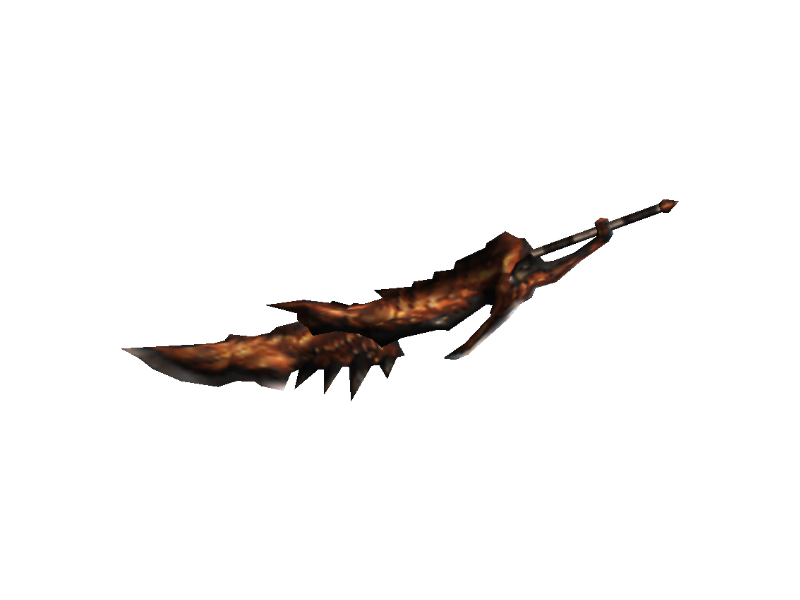
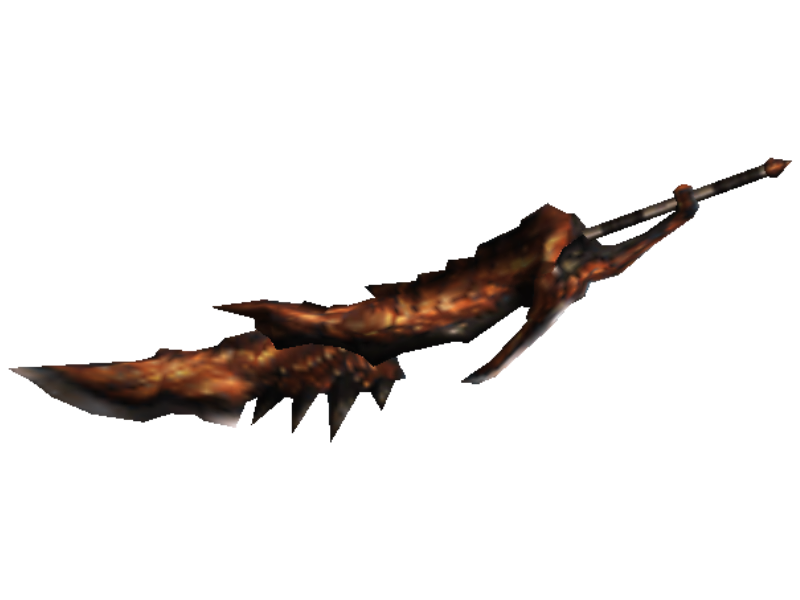
Add g-rank LS and GS images

Changed region(s): [[0.0, 0.27, 1.0, 0.75], [0.5625, 0.42, 0.5938, 0.45]]

diff --git a/templates/weapon.html b/templates/weapon.html
@@ -273,6 +273,8 @@
                 draggable="false"
                 src="/images/weapons/{{ page.slug }}.png"
                 alt="In-game render of weapon"
+                height="400"
+                width="300"
                 data-controller="image-zoom"
                 data-image-position-target="image"
                 data-action="wheel->image-zoom#zoom"

diff --git a/README.md b/README.md
@@ -50,11 +50,11 @@ In order to capture lossless images of weapons in the game (as they appear in th
 I then go in and rename each image following a pattern of `weapon_name-black.png/weapon_name-white.png`.
 
 ```bash
-convert '*-white.png' -crop 608x406+40+305 +repage -trim -gravity Center -background White -extent 800x600 -set filename:fn '%[basename]' '%[filename:fn].png'
+convert '*-white.png' -crop 856x571+55+429 +repage -trim -gravity Center -background White -extent 800x600 -set filename:fn '%[basename]' '%[filename:fn].png'
 ```
 
 ```bash
-convert '*-black.png' -crop 608x406+40+305 +repage -trim -gravity Center -background Black -extent 800x600 -set filename:fn '%[basename]' '%[filename:fn].png'
+convert '*-black.png' -crop 856x571+55+429 +repage -trim -gravity Center -background Black -extent 800x600 -set filename:fn '%[basename]' '%[filename:fn].png'
 ```
 
 The script below then iterates over the pairs of images and converts them into one, completely losslessly transparent, image for use on the site in a 4:3 ratio.
